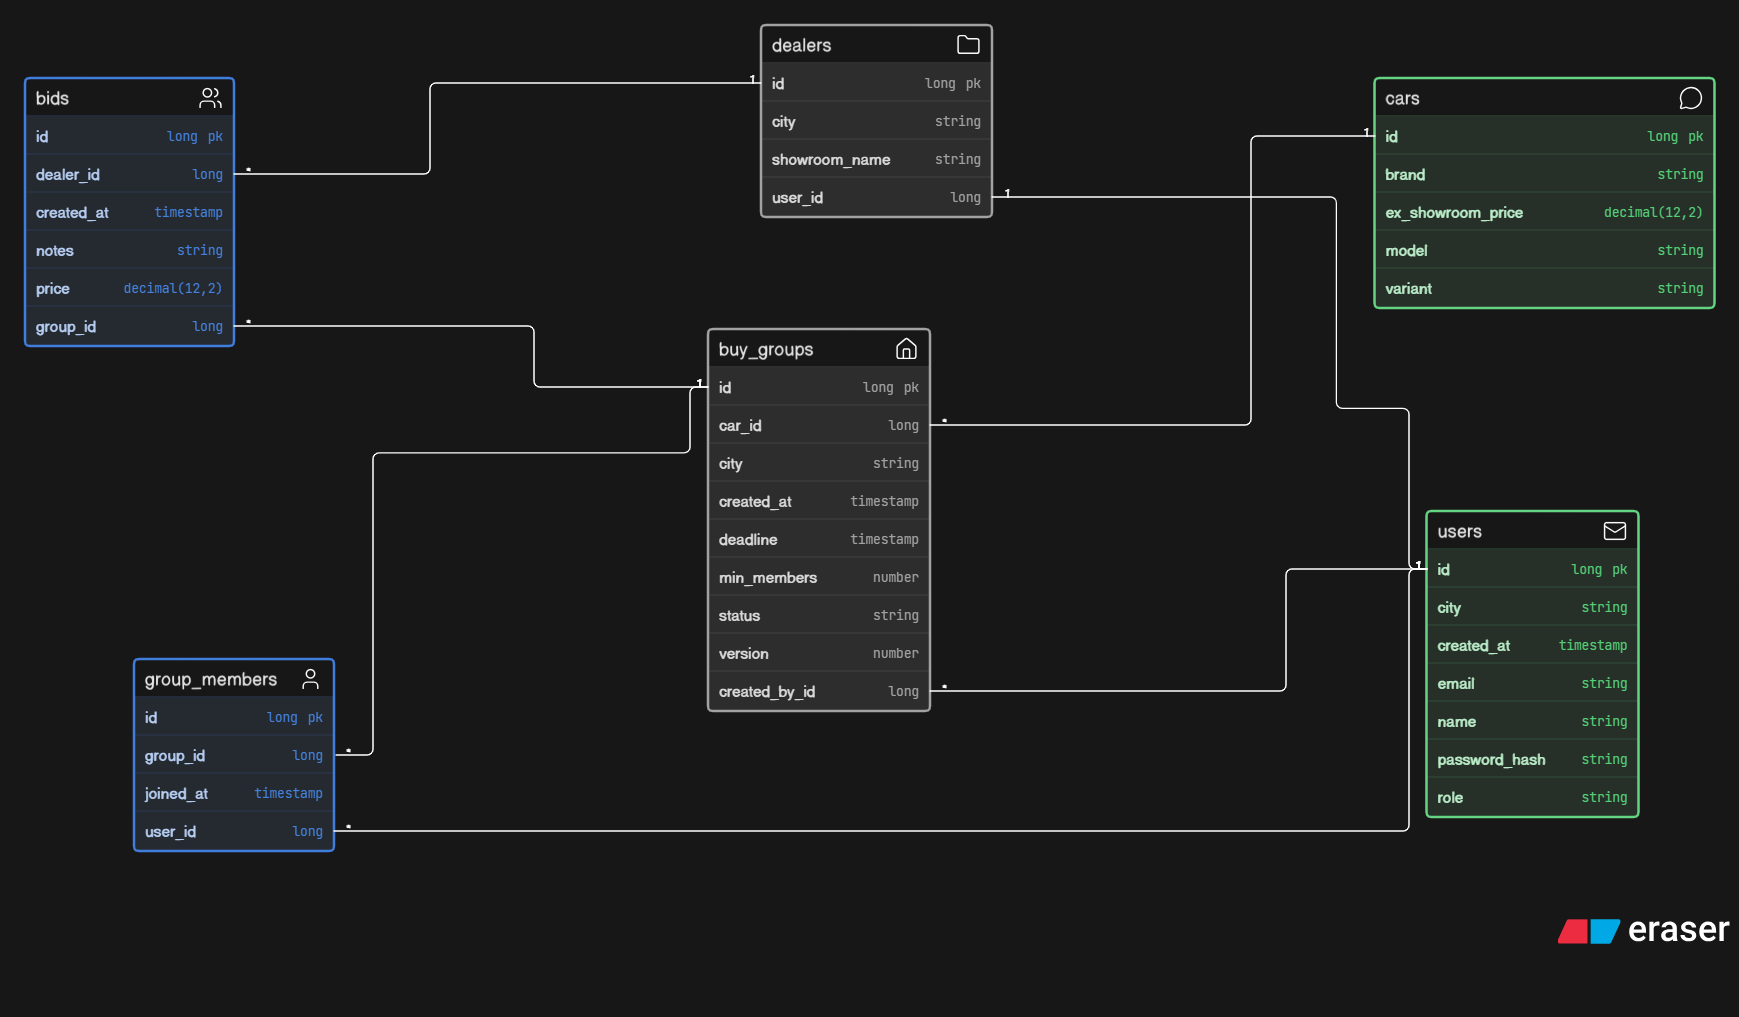
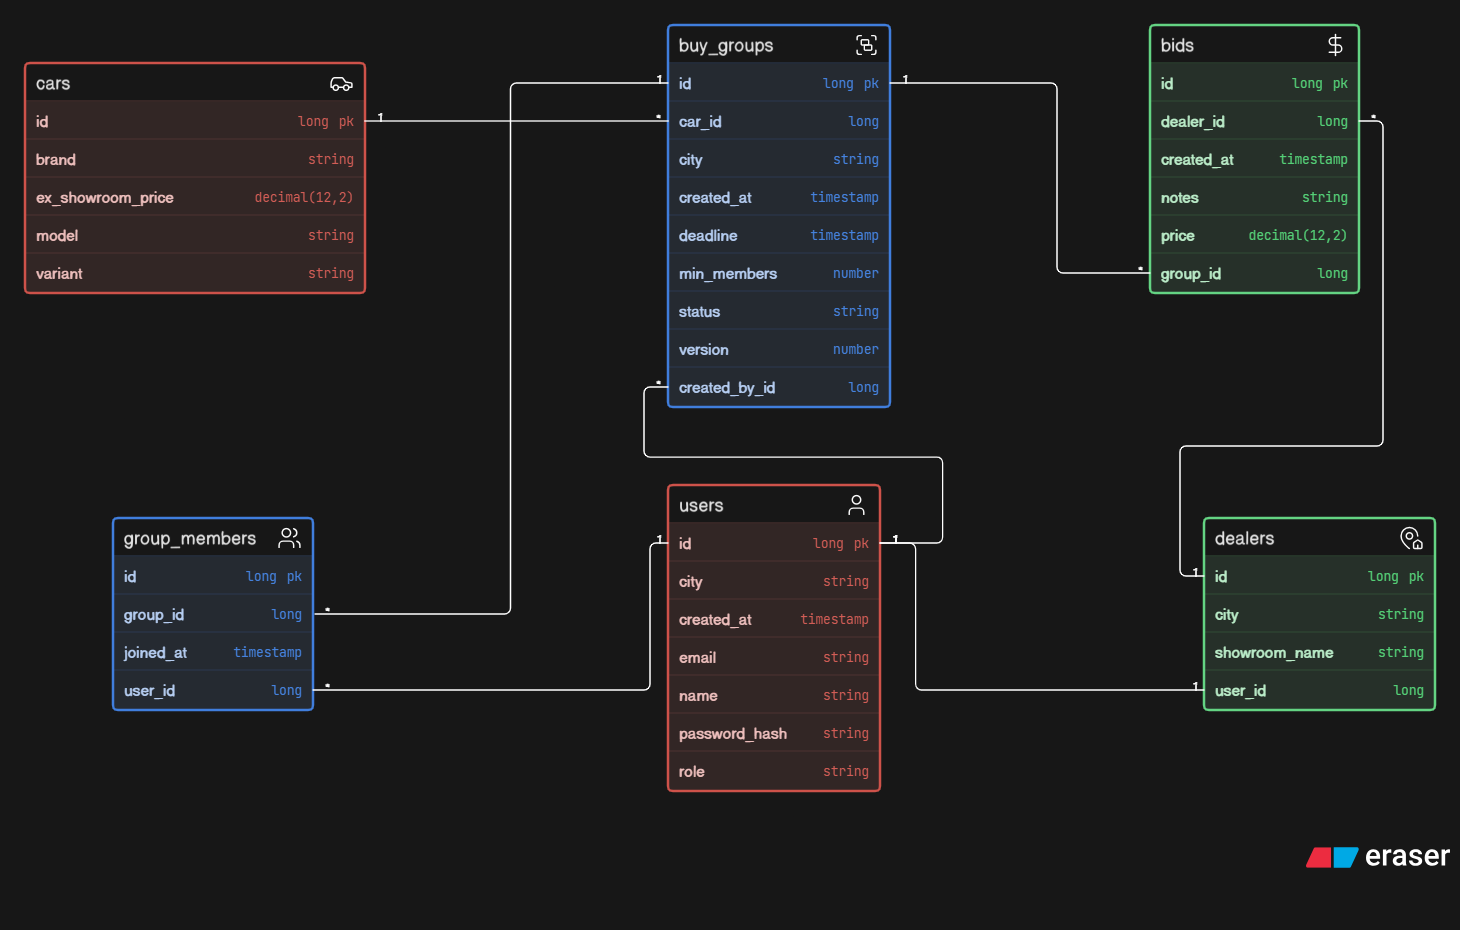
feat: add join group endpoint (#7)

diff --git a/backend/src/main/java/com/hwsinha/carbid/group/GroupService.java b/backend/src/main/java/com/hwsinha/carbid/group/GroupService.java
@@ -4,6 +4,7 @@ import com.hwsinha.carbid.car.Car;
 import com.hwsinha.carbid.car.CarRepository;
 import com.hwsinha.carbid.group.dto.CreateGroupRequest;
 import com.hwsinha.carbid.group.dto.GroupResponse;
+import com.hwsinha.carbid.group.dto.JoinGroupRequest;
 import com.hwsinha.carbid.user.User;
 import com.hwsinha.carbid.user.UserRepository;
 import lombok.RequiredArgsConstructor;
@@ -11,6 +12,8 @@ import org.springframework.http.HttpStatus;
 import org.springframework.stereotype.Service;
 import org.springframework.transaction.annotation.Transactional;
 import org.springframework.web.server.ResponseStatusException;
+
+import java.time.Instant;
 
 @Service
 @RequiredArgsConstructor
@@ -43,6 +46,31 @@ public class GroupService {
         memberRepository.save(member);
 
         return toResponse(savedGroup);
+    }
+
+    @Transactional
+    public GroupResponse joinGroup(Long groupId, JoinGroupRequest request) {
+        BuyGroup group=groupRepository.findById(groupId)
+                .orElseThrow(()-> new ResponseStatusException(HttpStatus.NOT_FOUND, "Group not found"));
+        User user=userRepository.findById(request.userId())
+                .orElseThrow(()-> new ResponseStatusException(HttpStatus.NOT_FOUND, "User not found"));
+        if (group.getStatus()!= GroupStatus.OPEN) {
+            throw new ResponseStatusException(HttpStatus.CONFLICT, "Group is not open");
+        }
+        if(group.getDeadline().isBefore(Instant.now())){
+            throw new ResponseStatusException(HttpStatus.CONFLICT, "Deadline is passed");
+        }
+        if(memberRepository.existsByGroupIdAndUserId(groupId,user.getId())){
+            throw new ResponseStatusException(HttpStatus.CONFLICT, "already a member");
+        }
+        GroupMember member=new GroupMember();
+        member.setGroup(group);
+        member.setUser(user);
+        memberRepository.saveAndFlush(member);
+        if (memberRepository.countByGroupId(groupId)>= group.getMinMembers()){
+            group.setStatus(GroupStatus.BIDDING);
+        }
+        return toResponse(group);
     }
 
     private GroupResponse toResponse(BuyGroup group) {

diff --git a/backend/src/main/java/com/hwsinha/carbid/group/GroupController.java b/backend/src/main/java/com/hwsinha/carbid/group/GroupController.java
@@ -2,14 +2,12 @@ package com.hwsinha.carbid.group;
 
 import com.hwsinha.carbid.group.dto.CreateGroupRequest;
 import com.hwsinha.carbid.group.dto.GroupResponse;
+import com.hwsinha.carbid.group.dto.JoinGroupRequest;
 import jakarta.validation.Valid;
 import lombok.RequiredArgsConstructor;
 import org.springframework.http.HttpStatus;
 import org.springframework.http.ResponseEntity;
-import org.springframework.web.bind.annotation.PostMapping;
-import org.springframework.web.bind.annotation.RequestBody;
-import org.springframework.web.bind.annotation.RequestMapping;
-import org.springframework.web.bind.annotation.RestController;
+import org.springframework.web.bind.annotation.*;
 
 @RestController
 @RequestMapping("/api/groups")
@@ -23,4 +21,14 @@ public class GroupController {
         GroupResponse body=groupService.createGroup(request);
         return ResponseEntity.status(HttpStatus.CREATED).body(body);
     }
+
+    @PostMapping("/{groupId}/join")
+    public ResponseEntity<GroupResponse> joinGroup(
+            @PathVariable Long groupId,
+            @Valid @RequestBody JoinGroupRequest request) {
+        GroupResponse body=groupService.joinGroup(groupId,request);
+        return ResponseEntity.status(HttpStatus.OK).body(body);
+    }
+
+
 }

diff --git a/backend/src/main/java/com/hwsinha/carbid/group/BuyGroupRepository.java b/backend/src/main/java/com/hwsinha/carbid/group/BuyGroupRepository.java
@@ -1,6 +1,13 @@
 package com.hwsinha.carbid.group;
 
+import jakarta.persistence.LockModeType;
 import org.springframework.data.jpa.repository.JpaRepository;
+import org.springframework.data.jpa.repository.Lock;
+
+import java.util.Optional;
 
 public interface BuyGroupRepository extends JpaRepository<BuyGroup,Long> {
+
+    @Lock(LockModeType.PESSIMISTIC_WRITE)
+    Optional<BuyGroup> findById(long id);
 }

diff --git a/backend/src/main/java/com/hwsinha/carbid/group/GroupMemberRepository.java b/backend/src/main/java/com/hwsinha/carbid/group/GroupMemberRepository.java
@@ -3,4 +3,7 @@ package com.hwsinha.carbid.group;
 import org.springframework.data.jpa.repository.JpaRepository;
 
 public interface GroupMemberRepository extends JpaRepository<GroupMember,Long> {
+
+    boolean existsByGroupIdAndUserId(Long groupId,Long userId);
+    long countByGroupId(Long groupId);
 }

diff --git a/backend/src/main/java/com/hwsinha/carbid/group/dto/JoinGroupRequest.java b/backend/src/main/java/com/hwsinha/carbid/group/dto/JoinGroupRequest.java
@@ -1,0 +1,8 @@
+package com.hwsinha.carbid.group.dto;
+
+import jakarta.validation.constraints.NotNull;
+
+public record JoinGroupRequest(
+        @NotNull Long userId
+) {
+}
